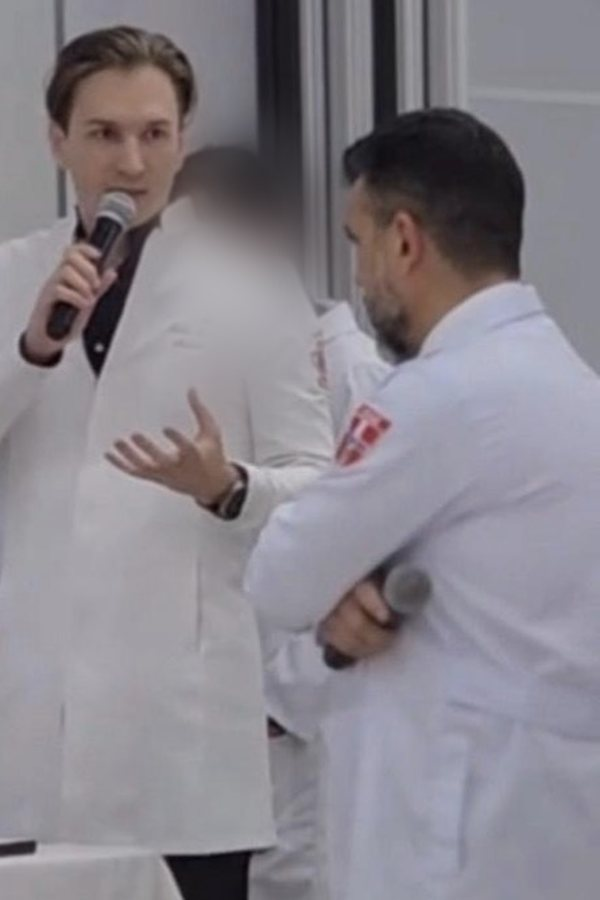
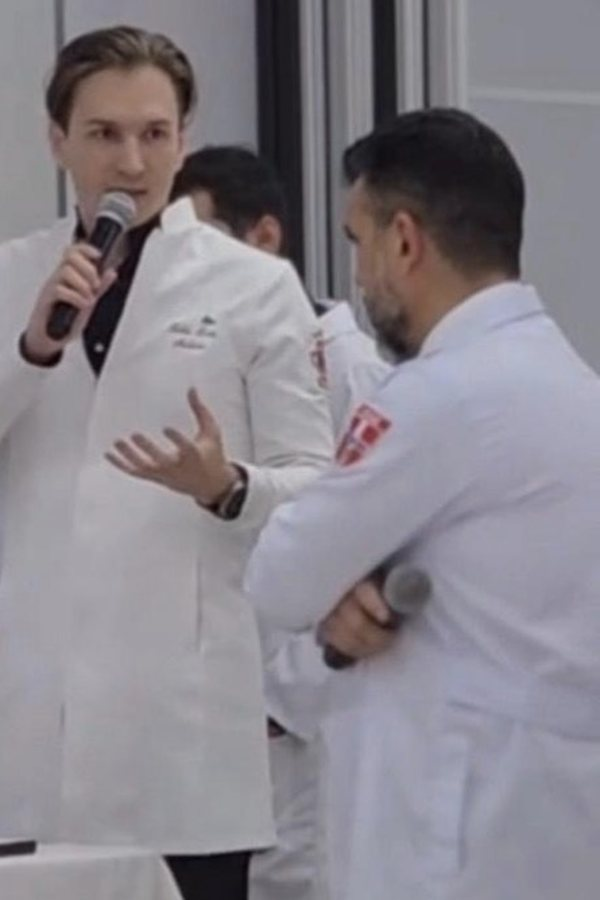
Remove blur from histology defence photo

diff --git a/es.html b/es.html
@@ -246,7 +246,7 @@ footer a:hover{color:var(--navy)}
 </div></section>
 
 <section class="sec strip" aria-label="Photos"><div class="wrap">
-  <div class="strip-row"><figure><img src="images/strip-tower-600.jpg?v=2" srcset="images/strip-tower-600.jpg?v=2 600w, images/strip-tower-900.jpg?v=2 900w" sizes="(min-width:760px) 240px, 70vw" width="600" height="900" alt="Render de Park Lofts Tower en Asunción, 100 metros de altura" loading="lazy" decoding="async"><figcaption>Park Lofts Tower, render &middot; 100&nbsp;m de altura, 7.000&nbsp;m&sup2;</figcaption></figure><figure><img src="images/strip-rohbau-600.jpg?v=2" srcset="images/strip-rohbau-600.jpg?v=2 600w, images/strip-rohbau-900.jpg?v=2 900w" sizes="(min-width:760px) 240px, 70vw" width="600" height="900" alt="Park Lofts Recoleta en Asunción, en obra gruesa" loading="lazy" decoding="async"><figcaption>Park Lofts Recoleta, obra gruesa</figcaption></figure><figure><img src="images/strip-site-600.jpg?v=2" srcset="images/strip-site-600.jpg?v=2 600w, images/strip-site-900.jpg?v=2 900w" sizes="(min-width:760px) 240px, 70vw" width="600" height="900" alt="Robin Loths en la obra de Park Lofts Recoleta en Asunción" loading="lazy" decoding="async"><figcaption>Park Lofts Recoleta, en obra en Asunci&oacute;n</figcaption></figure><figure><img src="images/strip-coat-600.jpg?v=2" srcset="images/strip-coat-600.jpg?v=2 600w, images/strip-coat-900.jpg?v=2 900w" sizes="(min-width:760px) 240px, 70vw" width="600" height="900" alt="Robin Loths con bata blanca y libros de medicina" loading="lazy" decoding="async"><figcaption>Estudiante de Medicina desde 2026</figcaption></figure><figure><img src="images/strip-defensa-600.jpg?v=2" srcset="images/strip-defensa-600.jpg?v=2 600w, images/strip-defensa-900.jpg?v=2 900w" sizes="(min-width:760px) 240px, 70vw" width="600" height="900" alt="Robin Loths defiende su proyecto de Histología ante el decano de la Facultad de Medicina" loading="lazy" decoding="async"><figcaption>Defensa en Histolog&iacute;a ante el decano de la Facultad de Medicina</figcaption></figure><figure><img src="images/strip-award-600.jpg?v=2" srcset="images/strip-award-600.jpg?v=2 600w, images/strip-award-900.jpg?v=2 900w" sizes="(min-width:760px) 240px, 70vw" width="600" height="900" alt="Distinción de la UMAX por el segundo puesto en Histología Humana, junio de 2026" loading="lazy" decoding="async"><figcaption>Segundo puesto, Histolog&iacute;a Humana, junio de 2026</figcaption></figure></div>
+  <div class="strip-row"><figure><img src="images/strip-tower-600.jpg?v=3" srcset="images/strip-tower-600.jpg?v=3 600w, images/strip-tower-900.jpg?v=3 900w" sizes="(min-width:760px) 240px, 70vw" width="600" height="900" alt="Render de Park Lofts Tower en Asunción, 100 metros de altura" loading="lazy" decoding="async"><figcaption>Park Lofts Tower, render &middot; 100&nbsp;m de altura, 7.000&nbsp;m&sup2;</figcaption></figure><figure><img src="images/strip-rohbau-600.jpg?v=3" srcset="images/strip-rohbau-600.jpg?v=3 600w, images/strip-rohbau-900.jpg?v=3 900w" sizes="(min-width:760px) 240px, 70vw" width="600" height="900" alt="Park Lofts Recoleta en Asunción, en obra gruesa" loading="lazy" decoding="async"><figcaption>Park Lofts Recoleta, obra gruesa</figcaption></figure><figure><img src="images/strip-site-600.jpg?v=3" srcset="images/strip-site-600.jpg?v=3 600w, images/strip-site-900.jpg?v=3 900w" sizes="(min-width:760px) 240px, 70vw" width="600" height="900" alt="Robin Loths en la obra de Park Lofts Recoleta en Asunción" loading="lazy" decoding="async"><figcaption>Park Lofts Recoleta, en obra en Asunci&oacute;n</figcaption></figure><figure><img src="images/strip-coat-600.jpg?v=3" srcset="images/strip-coat-600.jpg?v=3 600w, images/strip-coat-900.jpg?v=3 900w" sizes="(min-width:760px) 240px, 70vw" width="600" height="900" alt="Robin Loths con bata blanca y libros de medicina" loading="lazy" decoding="async"><figcaption>Estudiante de Medicina desde 2026</figcaption></figure><figure><img src="images/strip-defensa-600.jpg?v=3" srcset="images/strip-defensa-600.jpg?v=3 600w, images/strip-defensa-900.jpg?v=3 900w" sizes="(min-width:760px) 240px, 70vw" width="600" height="900" alt="Robin Loths defiende su proyecto de Histología ante el decano de la Facultad de Medicina" loading="lazy" decoding="async"><figcaption>Defensa en Histolog&iacute;a ante el decano de la Facultad de Medicina</figcaption></figure><figure><img src="images/strip-award-600.jpg?v=3" srcset="images/strip-award-600.jpg?v=3 600w, images/strip-award-900.jpg?v=3 900w" sizes="(min-width:760px) 240px, 70vw" width="600" height="900" alt="Distinción de la UMAX por el segundo puesto en Histología Humana, junio de 2026" loading="lazy" decoding="async"><figcaption>Segundo puesto, Histolog&iacute;a Humana, junio de 2026</figcaption></figure></div>
 </div></section>
 
 <section class="sec" id="path"><div class="wrap">

diff --git a/de.html b/de.html
@@ -246,7 +246,7 @@ footer a:hover{color:var(--navy)}
 </div></section>
 
 <section class="sec strip" aria-label="Photos"><div class="wrap">
-  <div class="strip-row"><figure><img src="images/strip-tower-600.jpg?v=2" srcset="images/strip-tower-600.jpg?v=2 600w, images/strip-tower-900.jpg?v=2 900w" sizes="(min-width:760px) 240px, 70vw" width="600" height="900" alt="Visualisierung des Park Lofts Tower in Asunción, 100 Meter hoch" loading="lazy" decoding="async"><figcaption>Park Lofts Tower, Visualisierung &middot; 100&nbsp;m H&ouml;he, 7.000&nbsp;m&sup2;</figcaption></figure><figure><img src="images/strip-rohbau-600.jpg?v=2" srcset="images/strip-rohbau-600.jpg?v=2 600w, images/strip-rohbau-900.jpg?v=2 900w" sizes="(min-width:760px) 240px, 70vw" width="600" height="900" alt="Park Lofts Recoleta in Asunción im Rohbau" loading="lazy" decoding="async"><figcaption>Park Lofts Recoleta, Rohbau</figcaption></figure><figure><img src="images/strip-site-600.jpg?v=2" srcset="images/strip-site-600.jpg?v=2 600w, images/strip-site-900.jpg?v=2 900w" sizes="(min-width:760px) 240px, 70vw" width="600" height="900" alt="Robin Loths auf der Baustelle von Park Lofts Recoleta in Asunción" loading="lazy" decoding="async"><figcaption>Park Lofts Recoleta, auf der Baustelle in Asunci&oacute;n</figcaption></figure><figure><img src="images/strip-coat-600.jpg?v=2" srcset="images/strip-coat-600.jpg?v=2 600w, images/strip-coat-900.jpg?v=2 900w" sizes="(min-width:760px) 240px, 70vw" width="600" height="900" alt="Robin Loths im Arztkittel mit medizinischen Lehrbüchern" loading="lazy" decoding="async"><figcaption>Medizinstudent seit 2026</figcaption></figure><figure><img src="images/strip-defensa-600.jpg?v=2" srcset="images/strip-defensa-600.jpg?v=2 600w, images/strip-defensa-900.jpg?v=2 900w" sizes="(min-width:760px) 240px, 70vw" width="600" height="900" alt="Robin Loths verteidigt sein Histologie-Projekt vor dem Dekan der Medizinischen Fakultät" loading="lazy" decoding="async"><figcaption>Verteidigung in Histologie vor dem Dekan der Medizinischen Fakult&auml;t</figcaption></figure><figure><img src="images/strip-award-600.jpg?v=2" srcset="images/strip-award-600.jpg?v=2 600w, images/strip-award-900.jpg?v=2 900w" sizes="(min-width:760px) 240px, 70vw" width="600" height="900" alt="UMAX-Auszeichnung für den zweiten Platz in Humanhistologie, Juni 2026" loading="lazy" decoding="async"><figcaption>Zweiter Platz, Humanhistologie, Juni 2026</figcaption></figure></div>
+  <div class="strip-row"><figure><img src="images/strip-tower-600.jpg?v=3" srcset="images/strip-tower-600.jpg?v=3 600w, images/strip-tower-900.jpg?v=3 900w" sizes="(min-width:760px) 240px, 70vw" width="600" height="900" alt="Visualisierung des Park Lofts Tower in Asunción, 100 Meter hoch" loading="lazy" decoding="async"><figcaption>Park Lofts Tower, Visualisierung &middot; 100&nbsp;m H&ouml;he, 7.000&nbsp;m&sup2;</figcaption></figure><figure><img src="images/strip-rohbau-600.jpg?v=3" srcset="images/strip-rohbau-600.jpg?v=3 600w, images/strip-rohbau-900.jpg?v=3 900w" sizes="(min-width:760px) 240px, 70vw" width="600" height="900" alt="Park Lofts Recoleta in Asunción im Rohbau" loading="lazy" decoding="async"><figcaption>Park Lofts Recoleta, Rohbau</figcaption></figure><figure><img src="images/strip-site-600.jpg?v=3" srcset="images/strip-site-600.jpg?v=3 600w, images/strip-site-900.jpg?v=3 900w" sizes="(min-width:760px) 240px, 70vw" width="600" height="900" alt="Robin Loths auf der Baustelle von Park Lofts Recoleta in Asunción" loading="lazy" decoding="async"><figcaption>Park Lofts Recoleta, auf der Baustelle in Asunci&oacute;n</figcaption></figure><figure><img src="images/strip-coat-600.jpg?v=3" srcset="images/strip-coat-600.jpg?v=3 600w, images/strip-coat-900.jpg?v=3 900w" sizes="(min-width:760px) 240px, 70vw" width="600" height="900" alt="Robin Loths im Arztkittel mit medizinischen Lehrbüchern" loading="lazy" decoding="async"><figcaption>Medizinstudent seit 2026</figcaption></figure><figure><img src="images/strip-defensa-600.jpg?v=3" srcset="images/strip-defensa-600.jpg?v=3 600w, images/strip-defensa-900.jpg?v=3 900w" sizes="(min-width:760px) 240px, 70vw" width="600" height="900" alt="Robin Loths verteidigt sein Histologie-Projekt vor dem Dekan der Medizinischen Fakultät" loading="lazy" decoding="async"><figcaption>Verteidigung in Histologie vor dem Dekan der Medizinischen Fakult&auml;t</figcaption></figure><figure><img src="images/strip-award-600.jpg?v=3" srcset="images/strip-award-600.jpg?v=3 600w, images/strip-award-900.jpg?v=3 900w" sizes="(min-width:760px) 240px, 70vw" width="600" height="900" alt="UMAX-Auszeichnung für den zweiten Platz in Humanhistologie, Juni 2026" loading="lazy" decoding="async"><figcaption>Zweiter Platz, Humanhistologie, Juni 2026</figcaption></figure></div>
 </div></section>
 
 <section class="sec" id="path"><div class="wrap">

diff --git a/pt.html b/pt.html
@@ -246,7 +246,7 @@ footer a:hover{color:var(--navy)}
 </div></section>
 
 <section class="sec strip" aria-label="Photos"><div class="wrap">
-  <div class="strip-row"><figure><img src="images/strip-tower-600.jpg?v=2" srcset="images/strip-tower-600.jpg?v=2 600w, images/strip-tower-900.jpg?v=2 900w" sizes="(min-width:760px) 240px, 70vw" width="600" height="900" alt="Render do Park Lofts Tower em Assunção, 100 metros de altura" loading="lazy" decoding="async"><figcaption>Park Lofts Tower, render &middot; 100&nbsp;m de altura, 7.000&nbsp;m&sup2;</figcaption></figure><figure><img src="images/strip-rohbau-600.jpg?v=2" srcset="images/strip-rohbau-600.jpg?v=2 600w, images/strip-rohbau-900.jpg?v=2 900w" sizes="(min-width:760px) 240px, 70vw" width="600" height="900" alt="Park Lofts Recoleta em Assunção, na fase de estrutura" loading="lazy" decoding="async"><figcaption>Park Lofts Recoleta, fase de estrutura</figcaption></figure><figure><img src="images/strip-site-600.jpg?v=2" srcset="images/strip-site-600.jpg?v=2 600w, images/strip-site-900.jpg?v=2 900w" sizes="(min-width:760px) 240px, 70vw" width="600" height="900" alt="Robin Loths na obra do Park Lofts Recoleta em Assunção" loading="lazy" decoding="async"><figcaption>Park Lofts Recoleta, na obra em Assun&ccedil;&atilde;o</figcaption></figure><figure><img src="images/strip-coat-600.jpg?v=2" srcset="images/strip-coat-600.jpg?v=2 600w, images/strip-coat-900.jpg?v=2 900w" sizes="(min-width:760px) 240px, 70vw" width="600" height="900" alt="Robin Loths de jaleco com livros de medicina" loading="lazy" decoding="async"><figcaption>Estudante de Medicina desde 2026</figcaption></figure><figure><img src="images/strip-defensa-600.jpg?v=2" srcset="images/strip-defensa-600.jpg?v=2 600w, images/strip-defensa-900.jpg?v=2 900w" sizes="(min-width:760px) 240px, 70vw" width="600" height="900" alt="Robin Loths defende seu projeto de Histologia perante o decano da Faculdade de Medicina" loading="lazy" decoding="async"><figcaption>Defesa em Histologia perante o decano da Faculdade de Medicina</figcaption></figure><figure><img src="images/strip-award-600.jpg?v=2" srcset="images/strip-award-600.jpg?v=2 600w, images/strip-award-900.jpg?v=2 900w" sizes="(min-width:760px) 240px, 70vw" width="600" height="900" alt="Prêmio da UMAX pelo segundo lugar em Histologia Humana, junho de 2026" loading="lazy" decoding="async"><figcaption>Segundo lugar, Histologia Humana, junho de 2026</figcaption></figure></div>
+  <div class="strip-row"><figure><img src="images/strip-tower-600.jpg?v=3" srcset="images/strip-tower-600.jpg?v=3 600w, images/strip-tower-900.jpg?v=3 900w" sizes="(min-width:760px) 240px, 70vw" width="600" height="900" alt="Render do Park Lofts Tower em Assunção, 100 metros de altura" loading="lazy" decoding="async"><figcaption>Park Lofts Tower, render &middot; 100&nbsp;m de altura, 7.000&nbsp;m&sup2;</figcaption></figure><figure><img src="images/strip-rohbau-600.jpg?v=3" srcset="images/strip-rohbau-600.jpg?v=3 600w, images/strip-rohbau-900.jpg?v=3 900w" sizes="(min-width:760px) 240px, 70vw" width="600" height="900" alt="Park Lofts Recoleta em Assunção, na fase de estrutura" loading="lazy" decoding="async"><figcaption>Park Lofts Recoleta, fase de estrutura</figcaption></figure><figure><img src="images/strip-site-600.jpg?v=3" srcset="images/strip-site-600.jpg?v=3 600w, images/strip-site-900.jpg?v=3 900w" sizes="(min-width:760px) 240px, 70vw" width="600" height="900" alt="Robin Loths na obra do Park Lofts Recoleta em Assunção" loading="lazy" decoding="async"><figcaption>Park Lofts Recoleta, na obra em Assun&ccedil;&atilde;o</figcaption></figure><figure><img src="images/strip-coat-600.jpg?v=3" srcset="images/strip-coat-600.jpg?v=3 600w, images/strip-coat-900.jpg?v=3 900w" sizes="(min-width:760px) 240px, 70vw" width="600" height="900" alt="Robin Loths de jaleco com livros de medicina" loading="lazy" decoding="async"><figcaption>Estudante de Medicina desde 2026</figcaption></figure><figure><img src="images/strip-defensa-600.jpg?v=3" srcset="images/strip-defensa-600.jpg?v=3 600w, images/strip-defensa-900.jpg?v=3 900w" sizes="(min-width:760px) 240px, 70vw" width="600" height="900" alt="Robin Loths defende seu projeto de Histologia perante o decano da Faculdade de Medicina" loading="lazy" decoding="async"><figcaption>Defesa em Histologia perante o decano da Faculdade de Medicina</figcaption></figure><figure><img src="images/strip-award-600.jpg?v=3" srcset="images/strip-award-600.jpg?v=3 600w, images/strip-award-900.jpg?v=3 900w" sizes="(min-width:760px) 240px, 70vw" width="600" height="900" alt="Prêmio da UMAX pelo segundo lugar em Histologia Humana, junho de 2026" loading="lazy" decoding="async"><figcaption>Segundo lugar, Histologia Humana, junho de 2026</figcaption></figure></div>
 </div></section>
 
 <section class="sec" id="path"><div class="wrap">

diff --git a/index.html b/index.html
@@ -246,7 +246,7 @@ footer a:hover{color:var(--navy)}
 </div></section>
 
 <section class="sec strip" aria-label="Photos"><div class="wrap">
-  <div class="strip-row"><figure><img src="images/strip-tower-600.jpg?v=2" srcset="images/strip-tower-600.jpg?v=2 600w, images/strip-tower-900.jpg?v=2 900w" sizes="(min-width:760px) 240px, 70vw" width="600" height="900" alt="Rendering of Park Lofts Tower in Asunción, 100 metres tall" loading="lazy" decoding="async"><figcaption>Park Lofts Tower, rendering &middot; 100&nbsp;m tall, 7,000&nbsp;m&sup2;</figcaption></figure><figure><img src="images/strip-rohbau-600.jpg?v=2" srcset="images/strip-rohbau-600.jpg?v=2 600w, images/strip-rohbau-900.jpg?v=2 900w" sizes="(min-width:760px) 240px, 70vw" width="600" height="900" alt="Park Lofts Recoleta in Asunción during shell construction" loading="lazy" decoding="async"><figcaption>Park Lofts Recoleta, shell construction</figcaption></figure><figure><img src="images/strip-site-600.jpg?v=2" srcset="images/strip-site-600.jpg?v=2 600w, images/strip-site-900.jpg?v=2 900w" sizes="(min-width:760px) 240px, 70vw" width="600" height="900" alt="Robin Loths on the Park Lofts Recoleta construction site in Asunción" loading="lazy" decoding="async"><figcaption>Park Lofts Recoleta, on site in Asunci&oacute;n</figcaption></figure><figure><img src="images/strip-coat-600.jpg?v=2" srcset="images/strip-coat-600.jpg?v=2 600w, images/strip-coat-900.jpg?v=2 900w" sizes="(min-width:760px) 240px, 70vw" width="600" height="900" alt="Robin Loths in a white coat with medical textbooks" loading="lazy" decoding="async"><figcaption>Medical student since 2026</figcaption></figure><figure><img src="images/strip-defensa-600.jpg?v=2" srcset="images/strip-defensa-600.jpg?v=2 600w, images/strip-defensa-900.jpg?v=2 900w" sizes="(min-width:760px) 240px, 70vw" width="600" height="900" alt="Robin Loths presenting his histology project to the Dean of the Faculty of Medicine" loading="lazy" decoding="async"><figcaption>Histology defence before the Dean of the Faculty of Medicine</figcaption></figure><figure><img src="images/strip-award-600.jpg?v=2" srcset="images/strip-award-600.jpg?v=2 600w, images/strip-award-900.jpg?v=2 900w" sizes="(min-width:760px) 240px, 70vw" width="600" height="900" alt="UMAX award for second place in human histology, June 2026" loading="lazy" decoding="async"><figcaption>Second place, Human Histology, June 2026</figcaption></figure></div>
+  <div class="strip-row"><figure><img src="images/strip-tower-600.jpg?v=3" srcset="images/strip-tower-600.jpg?v=3 600w, images/strip-tower-900.jpg?v=3 900w" sizes="(min-width:760px) 240px, 70vw" width="600" height="900" alt="Rendering of Park Lofts Tower in Asunción, 100 metres tall" loading="lazy" decoding="async"><figcaption>Park Lofts Tower, rendering &middot; 100&nbsp;m tall, 7,000&nbsp;m&sup2;</figcaption></figure><figure><img src="images/strip-rohbau-600.jpg?v=3" srcset="images/strip-rohbau-600.jpg?v=3 600w, images/strip-rohbau-900.jpg?v=3 900w" sizes="(min-width:760px) 240px, 70vw" width="600" height="900" alt="Park Lofts Recoleta in Asunción during shell construction" loading="lazy" decoding="async"><figcaption>Park Lofts Recoleta, shell construction</figcaption></figure><figure><img src="images/strip-site-600.jpg?v=3" srcset="images/strip-site-600.jpg?v=3 600w, images/strip-site-900.jpg?v=3 900w" sizes="(min-width:760px) 240px, 70vw" width="600" height="900" alt="Robin Loths on the Park Lofts Recoleta construction site in Asunción" loading="lazy" decoding="async"><figcaption>Park Lofts Recoleta, on site in Asunci&oacute;n</figcaption></figure><figure><img src="images/strip-coat-600.jpg?v=3" srcset="images/strip-coat-600.jpg?v=3 600w, images/strip-coat-900.jpg?v=3 900w" sizes="(min-width:760px) 240px, 70vw" width="600" height="900" alt="Robin Loths in a white coat with medical textbooks" loading="lazy" decoding="async"><figcaption>Medical student since 2026</figcaption></figure><figure><img src="images/strip-defensa-600.jpg?v=3" srcset="images/strip-defensa-600.jpg?v=3 600w, images/strip-defensa-900.jpg?v=3 900w" sizes="(min-width:760px) 240px, 70vw" width="600" height="900" alt="Robin Loths presenting his histology project to the Dean of the Faculty of Medicine" loading="lazy" decoding="async"><figcaption>Histology defence before the Dean of the Faculty of Medicine</figcaption></figure><figure><img src="images/strip-award-600.jpg?v=3" srcset="images/strip-award-600.jpg?v=3 600w, images/strip-award-900.jpg?v=3 900w" sizes="(min-width:760px) 240px, 70vw" width="600" height="900" alt="UMAX award for second place in human histology, June 2026" loading="lazy" decoding="async"><figcaption>Second place, Human Histology, June 2026</figcaption></figure></div>
 </div></section>
 
 <section class="sec" id="path"><div class="wrap">
